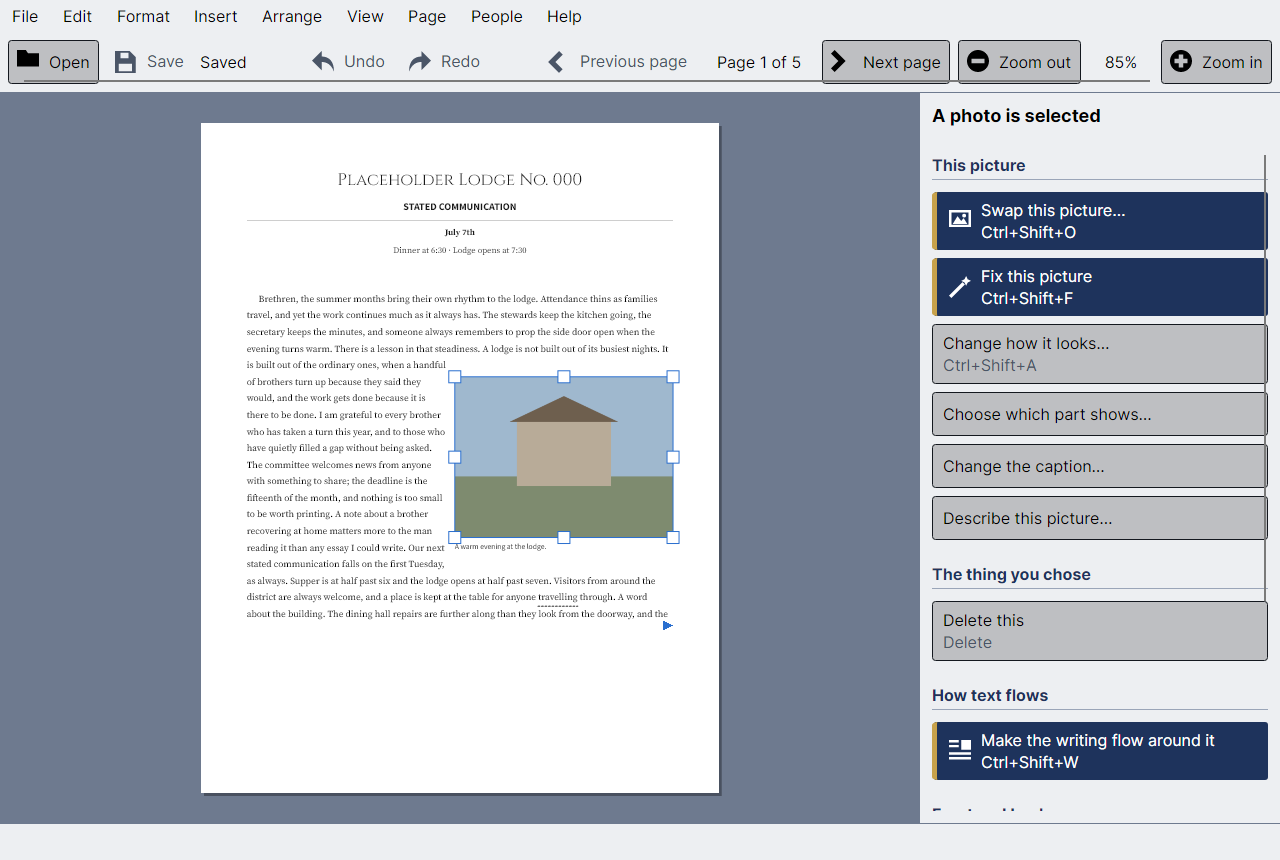
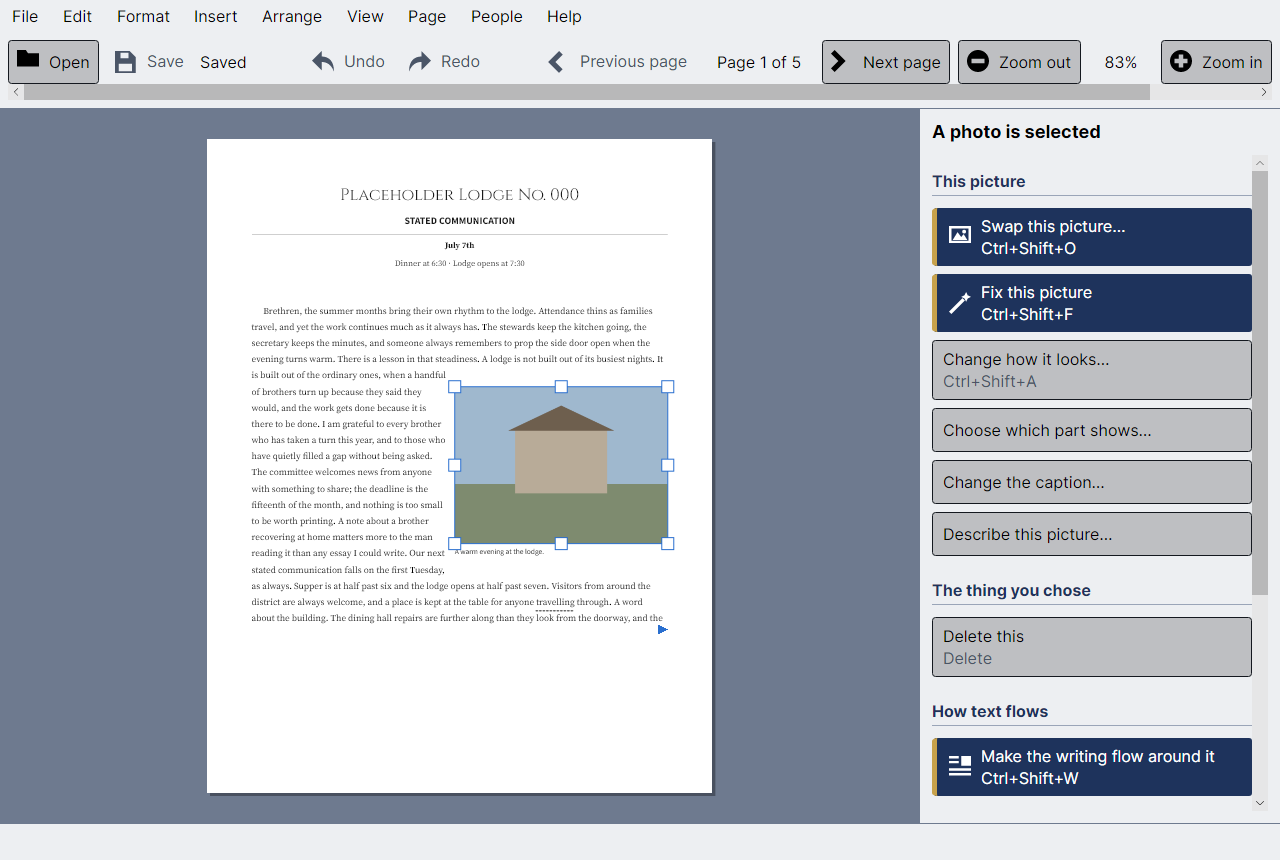
fix: scrollbars take their own room instead of floating over the chrome
Reported with a screenshot: buttons and chrome borders overlapping or escaping
their containers. Two symptoms, one cause.

Avalonia auto-hides a scrollbar and draws it OVER the content. Every action
panel button is stretched to the full panel width, so the vertical bar sat on
top of their right-hand edges and read as a grey line running down through the
offers. And because an auto-hiding bar only appears once the pointer is already
moving over it, there was nothing on screen to say the list continued below the
fold.

The toolbar had the same fault in the other axis. It has scrolled horizontally
since M9 precisely so that a window narrower than the toolbar cannot put a
command out of reach - the comment above it says "a control the user cannot
reach is the same as a control that is not there". But the bar auto-hid, so the
last button was simply cut off at the window edge with nothing to say it could
be scrolled to. The guard was there and invisible.

AllowAutoHide=false on both. The bar now occupies a layout column of its own, so
the panel's buttons end short of it, and the toolbar's overflow announces
itself. Worst at 200% UI scale, which is where PLAN.md section 6 cares most and
where the regenerated scale-200.png now shows a large scroll track with arrows
at both ends.

Eight screenshots regenerated - every one that frames the toolbar or the panel,
and no others.

Also removes BadBorder.png from the repository root: it was the report, not an
artifact.
[…]

Changed region(s): [[0.0, 0.0605, 1.0, 0.9372]]

diff --git a/src/TrestleBoard.App/Actions/ActionPanel.cs b/src/TrestleBoard.App/Actions/ActionPanel.cs
@@ -66,6 +66,14 @@ internal sealed class ActionPanel : Border
             Content = _content,
         };
 
+        // M69: the scrollbar takes its own room instead of floating over the buttons. Avalonia
+        // auto-hides a scrollbar by default and draws it OVER the content, so every panel button —
+        // stretched to the full width, as they all are — ran underneath it, and the bar sat as a
+        // grey line down the right-hand edge of the offers. Worse for this audience than it looks:
+        // an auto-hiding bar only appears once the pointer is already moving over it, so there was
+        // nothing on screen to say the list continued below the fold.
+        ScrollViewer.SetAllowAutoHide(scroller, false);
+
         var dock = new DockPanel();
         DockPanel.SetDock(_heading, Dock.Top);
         dock.Children.Add(_heading);
